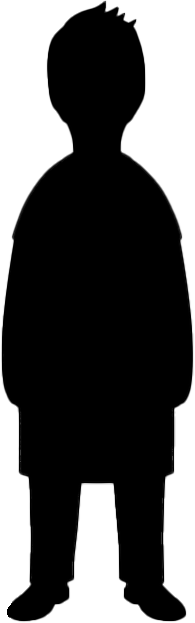
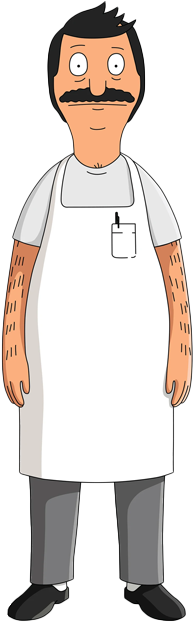
htmlcss

diff --git a/src/characters.html b/src/characters.html
@@ -11,26 +11,39 @@
   </head>
   <body>
     <header>
-      <nav>
-        <ul class="menu">
-          <li><a href="index.html">Home</a></li>
-          <li><a href="recipe.html">Recipes</a></li>
-          <li><a href="characters.html">Characters</a></li>
-          <li><a href="#">About</a></li>
-        </ul>
-      </nav>
+      <style id="background">
+        body {
+          background-image: url(./img/bobbackground.webp);
+          background-size: cover;
+        }
+      </style>
+      <div class="boxy">
+        <nav>
+          <ul class="menu">
+            <li clas><a href="index.html">Home</a></li>
+            <li><a href="recipe.html">Recipes</a></li>
+            <li><a href="characters.html">Characters</a></li>
+            <li><a href="#">About</a></li>
+          </ul>
+        </nav>
+      </div>
     </header>
-    <div class="bob">
-      <img src="./img/Bob.png" alt="" />
-    </div>
-    <div class="Gene">
-      <img src="./img/Gene.png" alt="" />
-    </div>
-    <div class="Linda">
-      <img src="./img/Linda.png" alt="" />
-    </div>
-    <div class="Tina">
-      <img src="./img/Tina.png" alt="" />
+    <div class="characters">
+      <div class="bob">
+        <img src="./img/Bob.png" alt="" />
+      </div>
+      <div class="Linda">
+        <img id="Linda" src="./img/Linda.png" alt="" />
+      </div>
+      <div class="Tina">
+        <img id="Tina" src="./img/Tina.png" alt="" />
+      </div>
+      <div class="Gene">
+        <img src="./img/Gene.png" alt="" />
+      </div>
+      <div class="Louis">
+        <img id="louis" src="./img/Louis.png" alt="" />
+      </div>
     </div>
   </body>
 </html>

diff --git a/src/css/main.css b/src/css/main.css
@@ -29,23 +29,60 @@ video {
 .bg-gray {
   background-color: gray;
 }
-
-.bob {
-  width: 4rem;
-  height: auto;
+#louis {
+  width: auto;
+  height: 25rem;
 }
 
-.Linda {
-  width: 4rem;
-  height: auto;
-}
-.Gene {
-  width: 4rem;
-  height: auto;
+#Linda {
+  width: auto;
+  height: 37rem;
 }
 
-.Tina {
-  width: 4rem;
-  height: auto;
+#Tina {
+  width: auto;
+  height: 30rem;
 }
-/* Desktop Only Styles*/
+.characters {
+  display: flex;
+  align-items: baseline;
+  gap: 3rem;
+  justify-content: center;
+}
+
+.box {
+  border: 12px solid rgb(164, 75, 73);
+  width: 10.5rem;
+  height: 13rem;
+  background-color: gray;
+  text-align: center;
+  padding-top: 0.5rem;
+  position: relative;
+  top: -42rem;
+}
+.menu a {
+  color: white;
+  line-height: 2.5rem;
+  font-size: 1.34rem;
+}
+
+.boxy {
+  border: 12px solid rgb(164, 75, 73);
+  width: 10.5rem;
+  height: 13rem;
+  background-color: gray;
+  text-align: center;
+  padding-top: 0.5rem;
+  position: relative;
+}
+
+.rbox {
+  border: 12px solid rgb(164, 75, 73);
+  width: 10.5rem;
+  height: 13rem;
+  background-color: gray;
+  text-align: center;
+  padding-top: 0.5rem;
+  position: relative;
+}
+/* Desktop Only Styles*/ ;

diff --git a/src/recipe.html b/src/recipe.html
@@ -11,14 +11,22 @@
   </head>
   <body>
     <header>
-      <nav>
-        <ul class="menu">
-          <li><a href="index.html">Home</a></li>
-          <li><a href="recipe.html">Recipes</a></li>
-          <li><a href="characters.html">Characters</a></li>
-          <li><a href="#">About</a></li>
-        </ul>
-      </nav>
+      <style id="background">
+        body {
+          background-image: url(./img/botd.png);
+          background-size: cover;
+        }
+      </style>
+      <div class="rbox">
+        <nav>
+          <ul class="menu">
+            <li><a href="index.html">Home</a></li>
+            <li><a href="recipe.html">Recipes</a></li>
+            <li><a href="characters.html">Characters</a></li>
+            <li><a href="#">About</a></li>
+          </ul>
+        </nav>
+      </div>
     </header>
   </body>
 </html>

diff --git a/src/index.html b/src/index.html
@@ -14,12 +14,14 @@
       <div class="sign"><img src="./img/Asset 6.png" alt="" /></div>
       <div class="belchers"><img src="./img/Asset 5.png" alt="" /></div>
       <nav>
-        <ul class="menu">
-          <li clas><a href="index.html">Home</a></li>
-          <li><a href="recipe.html">Recipes</a></li>
-          <li><a href="characters.html">Characters</a></li>
-          <li><a href="#">About</a></li>
-        </ul>
+        <div class="box">
+          <ul class="menu">
+            <li clas><a href="index.html">Home</a></li>
+            <li><a href="recipe.html">Recipes</a></li>
+            <li><a href="characters.html">Characters</a></li>
+            <li><a href="#">About</a></li>
+          </ul>
+        </div>
       </nav>
     </header>
   </body>
